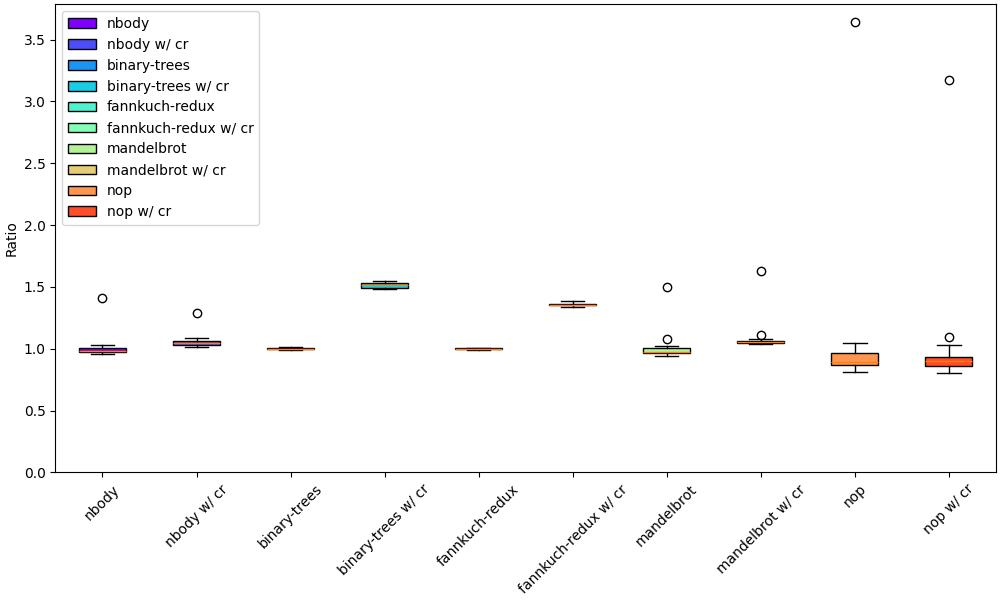
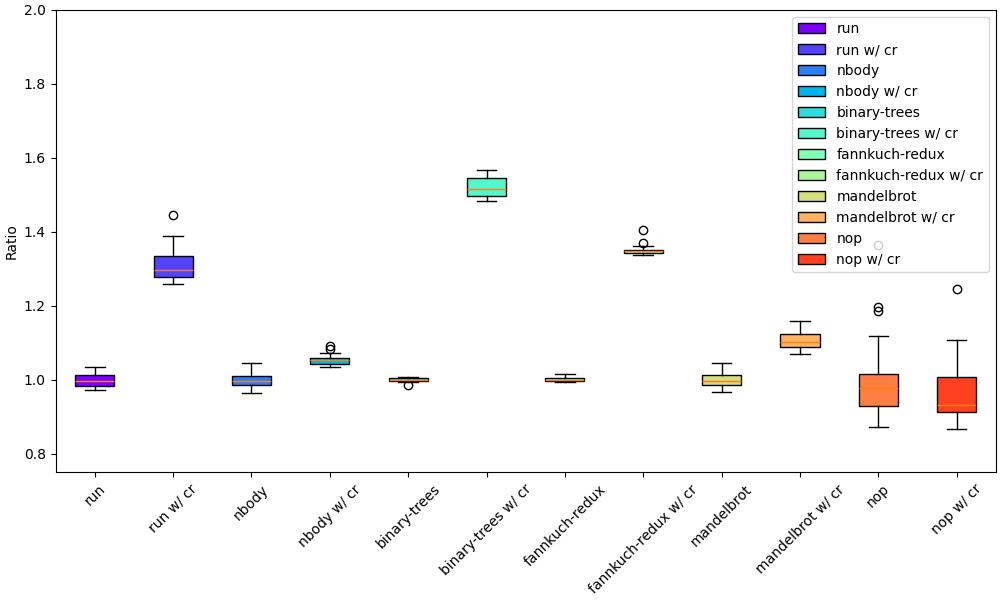
update result

diff --git a/benchmark/new-scripts/whisker-overhead.py b/benchmark/new-scripts/whisker-overhead.py
@@ -58,7 +58,7 @@ if args.title:
     plt.title(args.title)
 plt.legend(handles=boxplot["boxes"], labels=labels, loc="best", fontsize="medium")
 plt.ylabel("Ratio")
-plt.ylim(0, 2)
+plt.ylim(0.75, 2)
 plt.xticks(list(range(1, len(labels) + 1)), labels, rotation=45)
 if args.output:
     plt.savefig(args.output)
